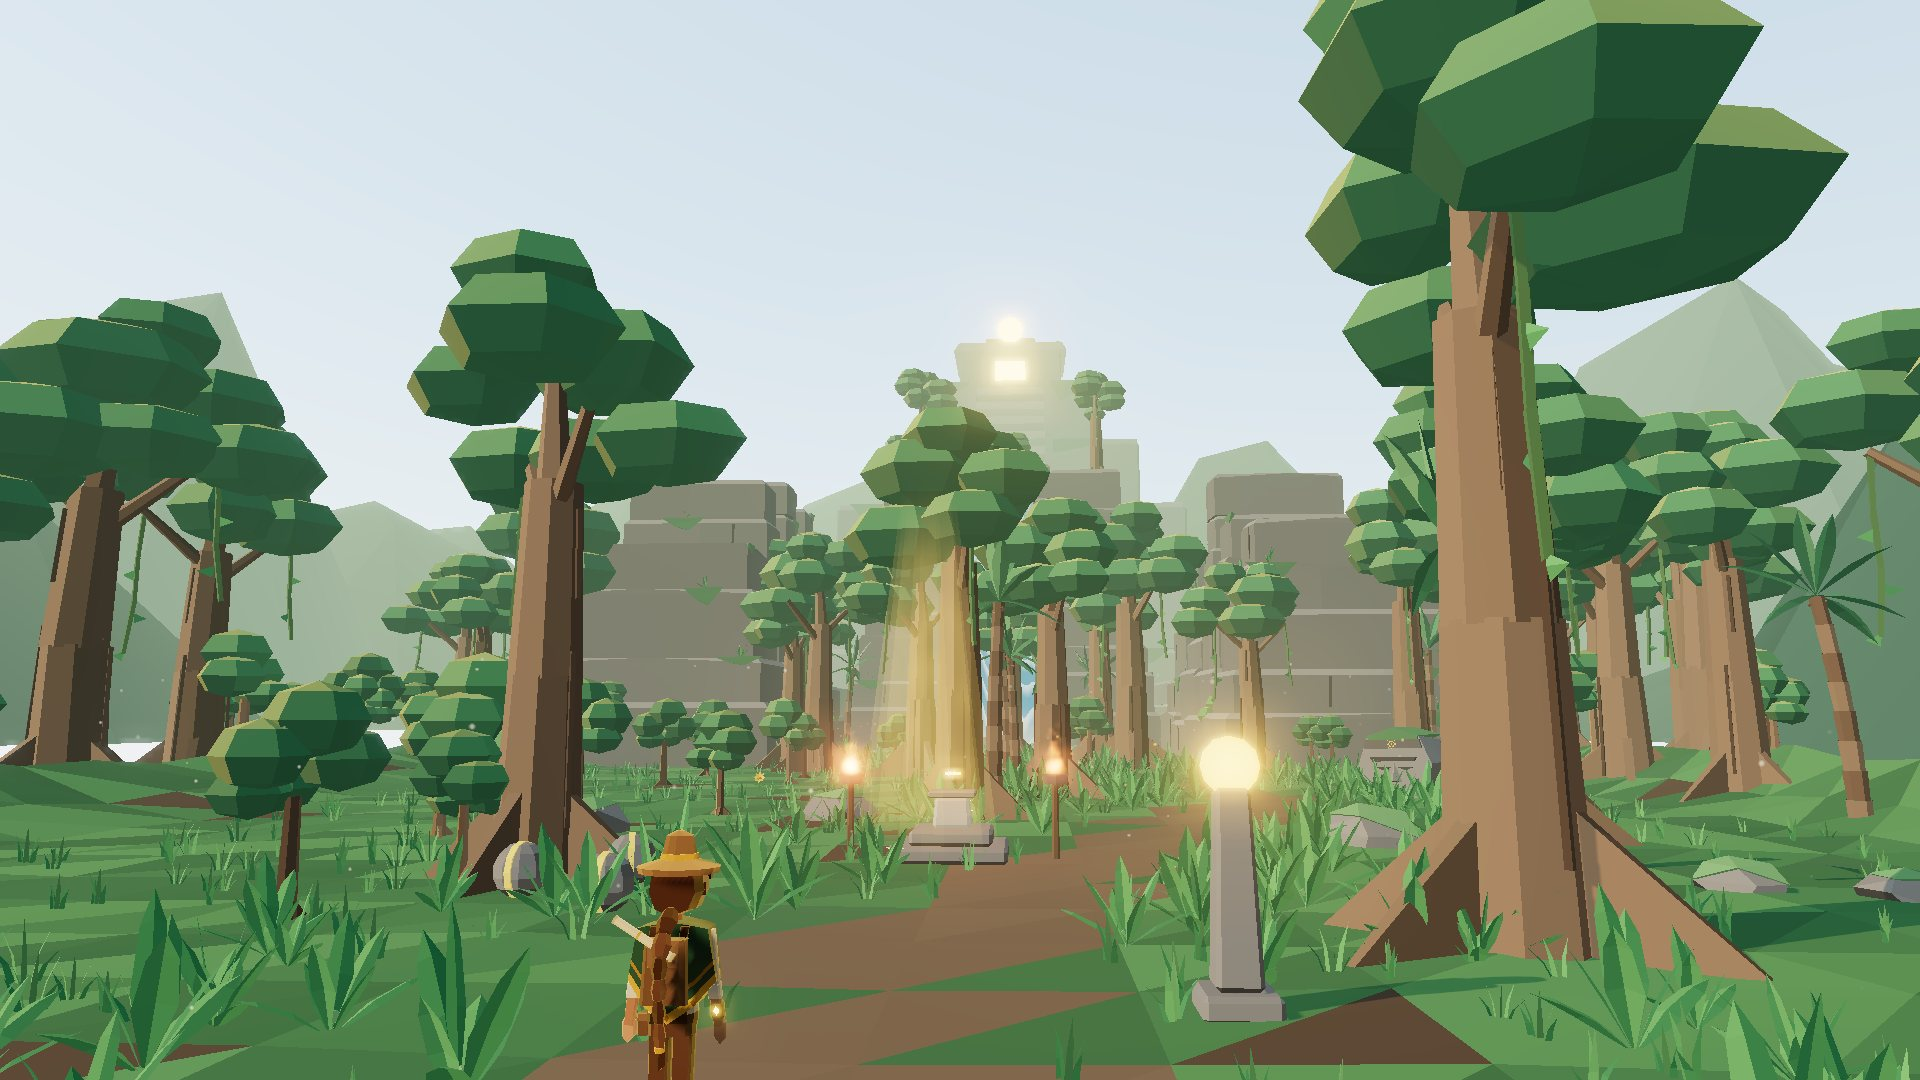
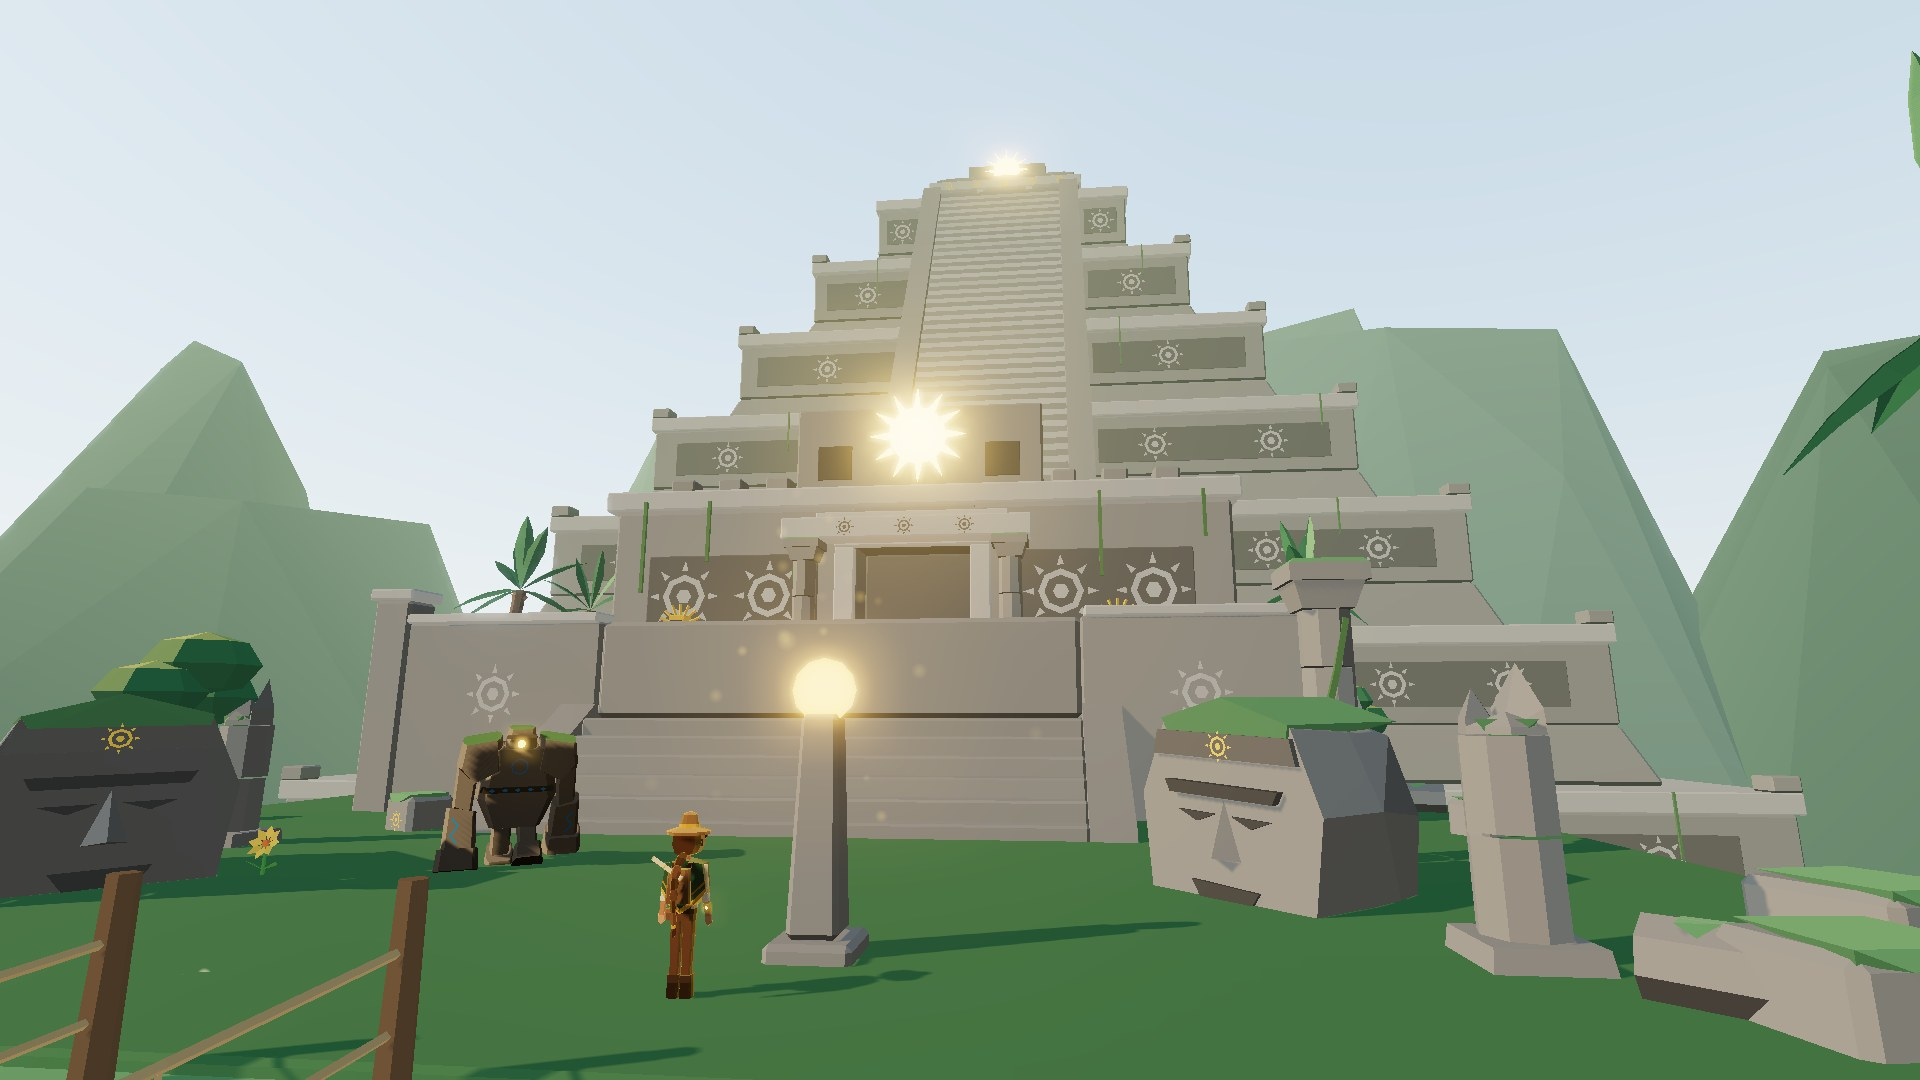
El juego se llama El Corazón del Guardián; portada de carga nueva
- Nombre nuevo en el título de la página, la portada de carga, el menú, el
  título de la introducción, el instalador y los documentos. La propuesta y el
  documento maestro conservan el original; el repositorio no cambia de nombre.
- Portada de carga: Victoria frente al pórtico nuevo, con la pirámide detrás
  (la anterior mostraba la pirámide vieja).

diff --git a/index.html b/index.html
@@ -3,7 +3,7 @@
   <head>
     <meta charset="UTF-8" />
     <meta name="viewport" content="width=device-width, initial-scale=1.0" />
-    <title>El Templo del Sol Perdido</title>
+    <title>El Corazón del Guardián</title>
     <!-- La portada se pide antes que todo: es lo primero que se ve mientras carga el juego -->
     <link rel="preload" as="image" href="/portada.jpg" />
   </head>
@@ -63,7 +63,7 @@
     <div id="pantalla-carga" class="pantalla portada">
       <div class="portada-texto">
         <p class="portada-antetitulo">Una aventura de Victoria Solano</p>
-        <h1 class="titulo-oro titulo-portada">El Templo del Sol Perdido</h1>
+        <h1 class="titulo-oro titulo-portada">El Corazón del Guardián</h1>
         <p class="portada-lema">Siguió el mapa de su padre hasta donde nadie volvió</p>
       </div>
       <div class="portada-carga">
@@ -73,7 +73,7 @@
     </div>
 
     <div id="pantalla-inicio" class="pantalla oculto">
-      <h1 class="titulo-oro titulo-menu">El Templo del Sol Perdido</h1>
+      <h1 class="titulo-oro titulo-menu">El Corazón del Guardián</h1>
       <div class="menu" id="menu-principal">
         <button type="button" class="boton oculto" id="boton-continuar-partida">Continuar</button>
         <button type="button" class="boton" id="boton-jugar">Jugar</button>

diff --git a/src/cinematics/story_cines.js b/src/cinematics/story_cines.js
@@ -35,7 +35,7 @@ export function intro(victoria, cima) {
       { t: 4.0, accion: 'niebla', datos: 1.5 },
       { t: 4.4, accion: 'acorde' },
       { t: 7.0, accion: 'niebla', datos: 1 },
-      { t: 11.8, accion: 'titulo', datos: 'El Templo del Sol Perdido' },
+      { t: 11.8, accion: 'titulo', datos: 'El Corazón del Guardián' },
       { t: 14.8, accion: 'guardar_mapa' },
     ],
   };

diff --git a/docs/GUION_VIDEO.md b/docs/GUION_VIDEO.md
@@ -11,7 +11,7 @@ Video corto que muestra los 8 requisitos del curso **con el audio activado**. Lo
 
 | Tiempo | En pantalla | Qué hacer | Voz en off (opcional) |
 |---|---|---|---|
-| 0–6 s | La introducción: vuelo sobre la selva, la cima dorada en la niebla, Victoria con el mapa, el título | Pulsar **Jugar** y dejar correr la introducción | «El Templo del Sol Perdido: una aventura 3D en el navegador, hecha toda con código.» |
+| 0–6 s | La introducción: vuelo sobre la selva, la cima dorada en la niebla, Victoria con el mapa, el título | Pulsar **Jugar** y dejar correr la introducción | «El Corazón del Guardián: una aventura 3D en el navegador, hecha toda con código.» |
 | 6–12 s | **1 · Escenario y sombras.** Las ruinas del pórtico con sombras de sol | Demostración → requisito 1; mover un poco la cámara | «Escenarios generados en Blender con Python, con luz y sombras.» |
 | 12–18 s | **2 · Navegación.** Girar la cámara; después la cámara libre | Mover el ratón; marcar «Cámara libre» y orbitar | «Cámara en tercera persona y cámara libre con OrbitControls.» |
 | 18–25 s | **3 · Audio 3D y 5 · Partículas.** Caminar hacia la cascada | Demostración → requisito 3; caminar hacia el agua y alejarse | «El sonido de la cascada sube al acercarse; el agua son partículas con gravedad.» |

diff --git a/docs/PENDIENTES.md b/docs/PENDIENTES.md
@@ -162,6 +162,12 @@ Guion gráfico con las nueve cinemáticas, cada viñeta junto a su captura del j
 | Al reaparecer en la arena (o continuar allí una partida) el Guardián despierta solo; la cinemática ya vista se salta. | Victoria reaparece pasado el umbral del despertar: el trigger no se volvía a cruzar, el Guardián seguía dormido y los pilares no le hacían nada. |
 | Las pruebas de los enemigos leen los valores de la configuración. | Así se puede ajustar la dificultad sin reescribirlas. |
 
+## Nombre del juego (11/11)
+
+| Decisión | Motivo |
+|---|---|
+| El juego se llama **El Corazón del Guardián** (antes «El Templo del Sol Perdido»): título de la página, portada de carga, menú, título de la introducción, documentos y diapositivas. La propuesta y el documento maestro conservan el nombre original; el repositorio y el paquete siguen llamándose `ElTemploDelSol` / `templo-del-sol`. | Lo pediste: pone en el centro la historia (Mateo atrapado dentro del Guardián). Cambiar el nombre del repositorio rompería el enlace de GitHub y el instalador. |
+
 ## Pendiente
 
 - Medir los FPS en una computadora con tarjeta gráfica dedicada (calidad media y alta).

diff --git a/docs/CHECKLIST_CURSO.md b/docs/CHECKLIST_CURSO.md
@@ -1,6 +1,6 @@
 # Checklist del curso: todo lo visto en clase y cómo está en el juego
 
-Fuente: las diapositivas y talleres de las semanas 1 a 10 de *Programación de Entornos Multimedia* (Mg. Gabriel Guerrero Arellano). Para cada tema dice cómo se aplicó en **El Templo del Sol Perdido**, dónde está y cómo mostrarlo.
+Fuente: las diapositivas y talleres de las semanas 1 a 10 de *Programación de Entornos Multimedia* (Mg. Gabriel Guerrero Arellano). Para cada tema dice cómo se aplicó en **El Corazón del Guardián**, dónde está y cómo mostrarlo.
 
 **Estado:** **Hecho** = está en el juego tal como se vio en clase · **Equivalente** = se cumple el mismo objetivo por otra vía, explicada en la fila · **No se usa** = no está, con el motivo.
 

diff --git a/docs/PRESENTACION.md b/docs/PRESENTACION.md
@@ -1,4 +1,4 @@
-# El Templo del Sol Perdido — contenido de las diapositivas (revisión técnica)
+# El Corazón del Guardián — contenido de las diapositivas (revisión técnica)
 
 Cada sección es una diapositiva. Todas siguen el mismo orden:
 - **Tema del curso:** lo que se vio en clase.
@@ -16,7 +16,7 @@ El checklist completo, tema por tema de las semanas 1 a 10, está en [CHECKLIST_
 
 ## 1. Portada
 
-- **El Templo del Sol Perdido.** Aventura 3D en tercera persona para el navegador.
+- **El Corazón del Guardián.** Aventura 3D en tercera persona para el navegador.
 - **Curso:** Programación de Entornos Multimedia. Equipo: *(nombres)*.
 - **Imagen:** la portada del juego (`public/portada.jpg`, un fotograma del propio juego).
 

diff --git a/docs/GUION_DIALOGOS.md b/docs/GUION_DIALOGOS.md
@@ -1,4 +1,4 @@
-# El Templo del Sol Perdido — Guion de diálogos
+# El Corazón del Guardián — Guion de diálogos
 
 Este guion reúne todo lo que se dice o se lee en el juego. Cada línea tiene un **código**: el juego lo usa para mostrar el subtítulo, mover la cara del personaje y, si existe, reproducir el audio con ese nombre.
 

diff --git a/AGENTS.md b/AGENTS.md
@@ -1,6 +1,6 @@
 # Instrucciones para agentes
 
-El Templo del Sol Perdido: aventura 3D para el navegador hecha con Three.js 0.160, cannon-es 0.20 y Vite.
+El Corazón del Guardián: aventura 3D para el navegador hecha con Three.js 0.160, cannon-es 0.20 y Vite.
 
 ## Instalar todo (un comando)
 

diff --git a/docs/README.md b/docs/README.md
@@ -1,4 +1,4 @@
-# El Templo del Sol Perdido
+# El Corazón del Guardián
 
 Aventura 3D para navegador hecha con **Three.js 0.160.0** y **cannon-es 0.20.0**: proyecto integrador de *Programación de Entornos Multimedia*.
 

diff --git a/docs/FICHA_CONCEPTO.md b/docs/FICHA_CONCEPTO.md
@@ -1,4 +1,4 @@
-# El Templo del Sol Perdido — ficha del concepto
+# El Corazón del Guardián — ficha del concepto
 
 *Borrador para que el equipo lo revise, añada sus nombres y lo exporte a PDF (una página).*
 
